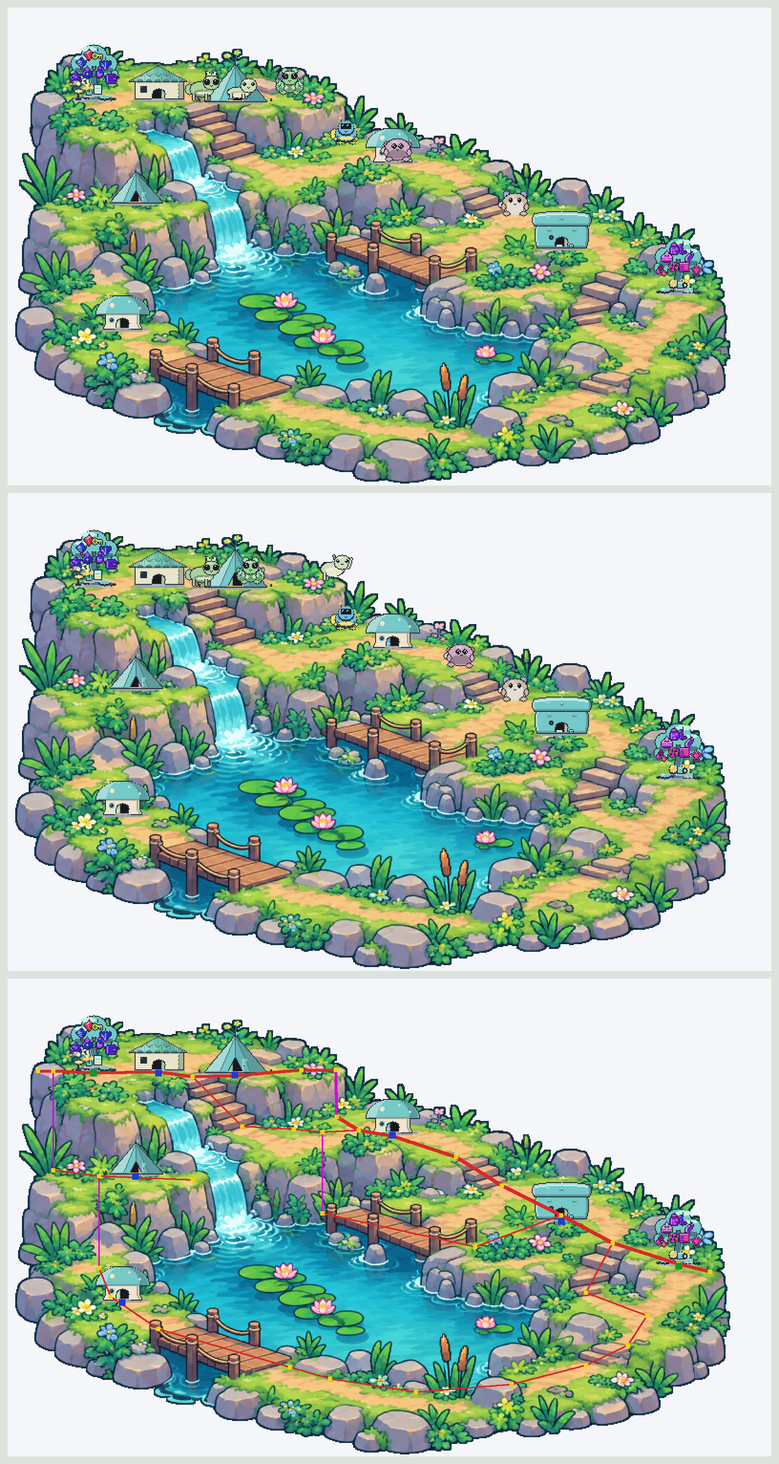
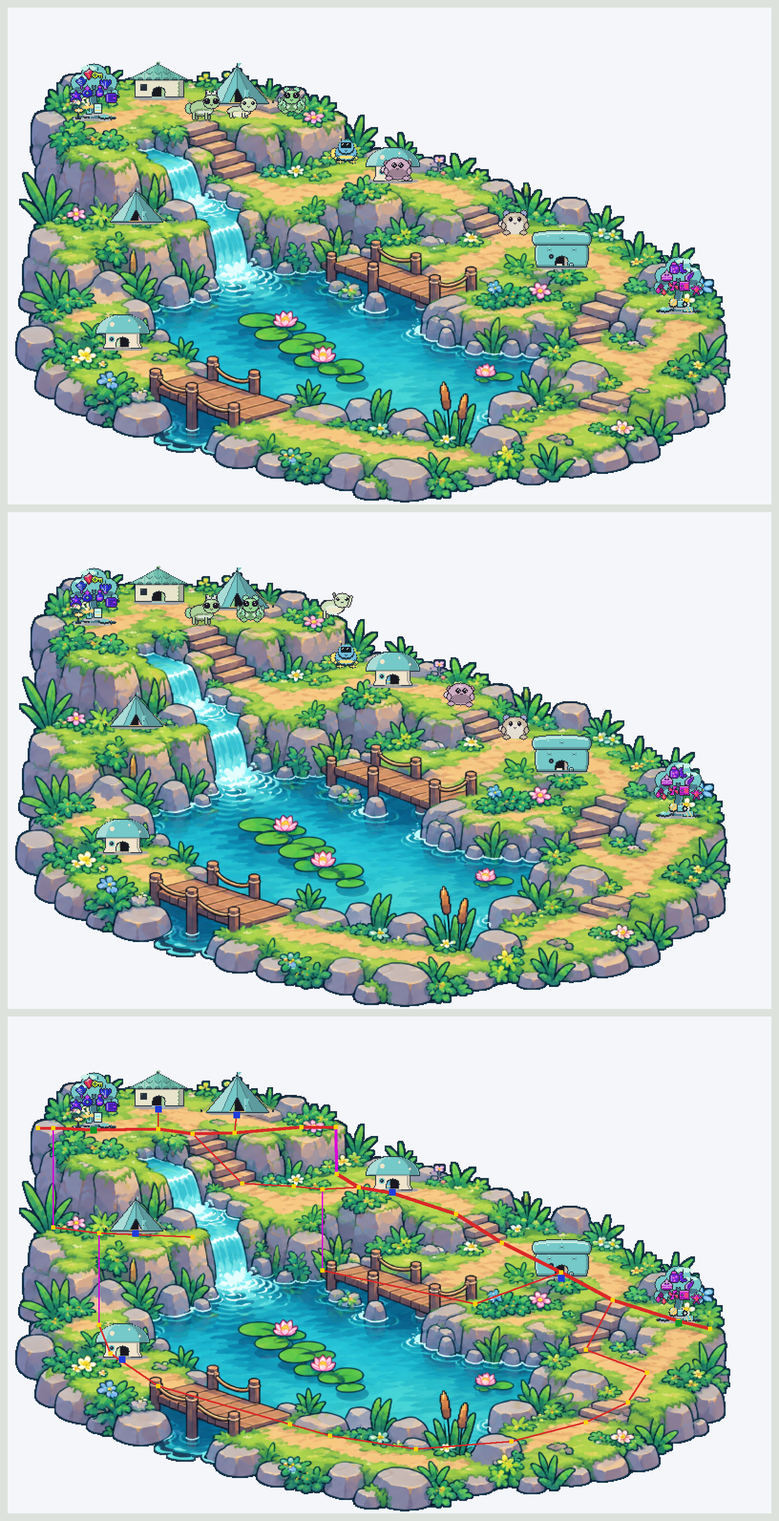
Stand the top terrace's houses back from its edge, clear of the stairs
The colony house and the cottage beside it stood on the top terrace's front edge, either side of
the top of the stairs. They now stand at the back of the terrace, a short path running back from
the trail to each door, so the top of the stairs and the front edge are left open. The picture
needs 46 pixels of room above it for them rather than 24.

diff --git a/crates/formiga-core/src/scenery.rs b/crates/formiga-core/src/scenery.rs
@@ -346,10 +346,12 @@ impl SceneryPlacement {
 
 /// The pond: terraces stepping down from the top left to the bottom right round a pond, with a
 /// waterfall off the top terrace, a bridge over the pond's top and another over its foot, and
-/// stairs between the levels. The colony house stands on the top terrace beside the outward tree,
-/// the next two houses on the levels below it as the trail runs down to the inward tree, one more
-/// on the top terrace between the outward tree and the colony house, and the last two on the
-/// ledge beside the falls and the terrace at the pond's foot below it.
+/// stairs between the levels. The colony house stands at the back of the top terrace beside the
+/// outward tree, the next two houses on the levels below it as the trail runs down to the inward
+/// tree, one more at the back of the top terrace between the outward tree and the colony house,
+/// and the last two on the ledge beside the falls and the terrace at the pond's foot below it. The
+/// two on the top terrace stand back from its front edge, so the top of the stairs is left clear,
+/// and a short path runs back from the trail to each of their doors.
 ///
 /// The trail comes down off the top terrace by the cliff under its right-hand end, which is the
 /// short way; the stairs beside the colony house are the long way round. The left-hand side is
@@ -358,7 +360,7 @@ impl SceneryPlacement {
 pub const POND: SceneryMap = SceneryMap {
     width: 749,
     height: 457,
-    headroom: 24.0,
+    headroom: 46.0,
     nodes: &[
         // The trail, from the top terrace's left end down to the inward tree.
         (24.0, 56.0),   // 0: the top terrace's left end
@@ -401,6 +403,9 @@ pub const POND: SceneryMap = SceneryMap {
         // The rocks at the foot of the cliff under the second terrace, and the upper bridge.
         (322.0, 205.0), // 34: the upper bridge's left end
         (482.0, 240.0), // 35: its right end
+        // Back from the trail across the top terrace to the two doors there.
+        (232.0, 42.0), // 36: the colony house's door
+        (150.0, 36.0), // 37: the door of the house beside it
     ],
     edges: &[
         (0, 1, Footing::Walk),
@@ -441,15 +446,17 @@ pub const POND: SceneryMap = SceneryMap {
         (19, 34, Footing::Climb),
         (34, 35, Footing::Walk),
         (35, 13, Footing::Walk),
+        (5, 36, Footing::Walk),
+        (3, 37, Footing::Walk),
     ],
     trail: &[0, 1, 2, 3, 4, 5, 6, 7, 8, 9, 10, 11, 12, 13, 14, 15, 16],
     // The path along the front of the pond, lowest of all.
     ways_up: &[23, 24, 25, 26],
     houses: [
-        (230.0, 60.0),  // the colony house, on the top terrace
+        (232.0, 42.0),  // the colony house, at the back of the top terrace
         (395.0, 123.0), // below it, on the second terrace
         (572.0, 213.0), // below that, past the second stairs
-        (150.0, 58.0),  // between the outward tree and the colony house
+        (150.0, 36.0),  // between the outward tree and the colony house, as far back
         (126.0, 166.0), // on the ledge beside the falls
         (112.0, 298.0), // at the foot of the pond, under the ledge
     ],

diff --git a/crates/formiga-tools/src/scenery_sheet.rs b/crates/formiga-tools/src/scenery_sheet.rs
@@ -10,7 +10,7 @@ use std::path::PathBuf;
 use time::OffsetDateTime;
 
 /// One display just big enough for the pond at one point per shelter pixel, drawn twice over.
-const DISPLAY: (u32, u32) = (800, 500);
+const DISPLAY: (u32, u32) = (800, 520);
 const SCALE: u32 = 2;
 const GAP: u32 = 16;
 

diff --git a/docs/ARCHITECTURE.md b/docs/ARCHITECTURE.md
@@ -1304,14 +1304,15 @@ drops it whenever the village is not out on scenery there. The Home page preview
 the same picture.
 
 `formiga-core/src/scenery.rs` holds everything else about it, in the picture's own pixels: a spot
-for each of the six houses in the order they are given out — the colony house on the top terrace
-beside the outward tree, the next two down the levels to the inward tree, then one between the
-outward tree and the colony house, one on the ledge beside the falls and one at the pond's foot —
-the two trees' spots, and a walk map of 36 points joined by straight runs, each walked (paths,
-stairs, bridges) or climbed. `SceneryPlacement` puts the picture on the desktop and turns its
-pixels into points. `VillageGround::resolve` places it in the home's corner, eight points in from
-the side and standing on the floor of the accessible region, when that region has room for the
-whole picture and the 24 pixels of houses and trees above its top edge at the colony's size;
+for each of the six houses in the order they are given out — the colony house at the back of the
+top terrace beside the outward tree, the next two down the levels to the inward tree, then one at
+the back of the top terrace between the outward tree and the colony house, one on the ledge
+beside the falls and one at the pond's foot — the two trees' spots, and a walk map of 38 points
+joined by straight runs, each walked (paths, stairs, bridges) or climbed. `SceneryPlacement` puts
+the picture on the desktop and turns its pixels into points. `VillageGround::resolve` places it in
+the home's corner, eight points in from the side and standing on the floor of the accessible
+region, when that region has room for the
+whole picture and the 46 pixels of houses and trees above its top edge at the colony's size;
 otherwise the village keeps to its strip, exactly where it would have stood. At the default size on
 a Retina display the picture is about 1,124×686 points.
 
@@ -1324,7 +1325,9 @@ through `village_step`: over the walk map by the shortest route, a climb countin
 length so the stairs win where they are nearly as short, a quarter quicker than the walk on a
 cliff, as up a window's side, and in the `ClimbWindow` clip, landing exactly on a destination on the map and at the nearest place on
 it to one off it. The routing is a Dijkstra over at most 40 points on the stack, asked once per
-step. A house off the trail is reached at the nearest place on the map to its door.
+step. The two houses on the top terrace stand back from its front edge, leaving the top of the stairs
+clear, and a short path runs back from the trail to each door; any other house off the trail is
+reached at the nearest place on the map to its door.
 
 A companion coming home from elsewhere walks the floor to below the nearest of the front path's
 four ways up and hops up onto it, then walks the rest of the way over the picture. When the houses
